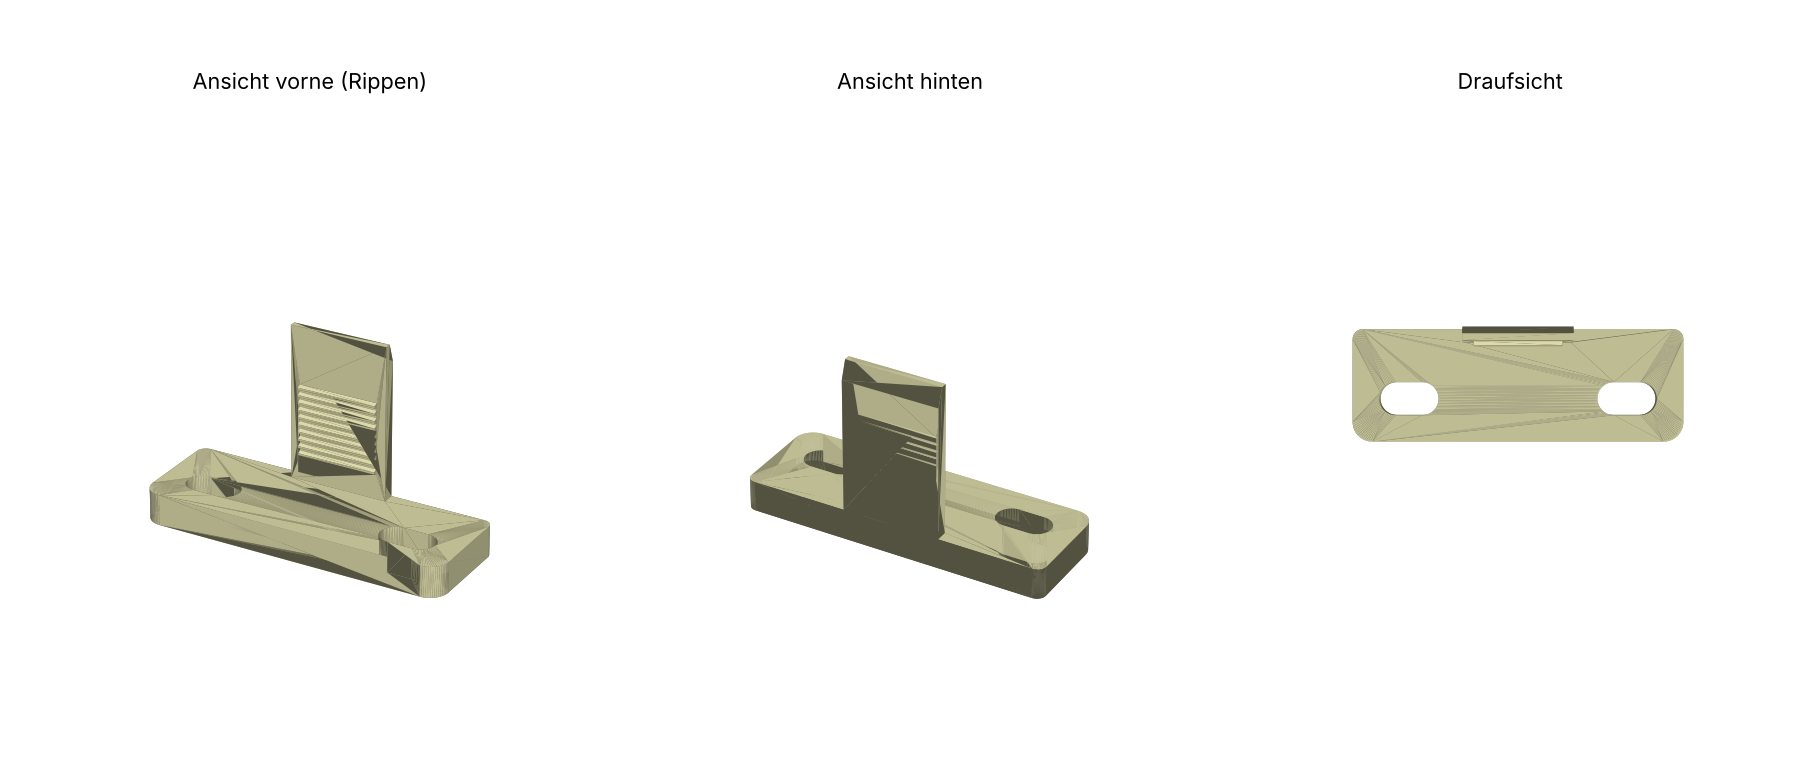
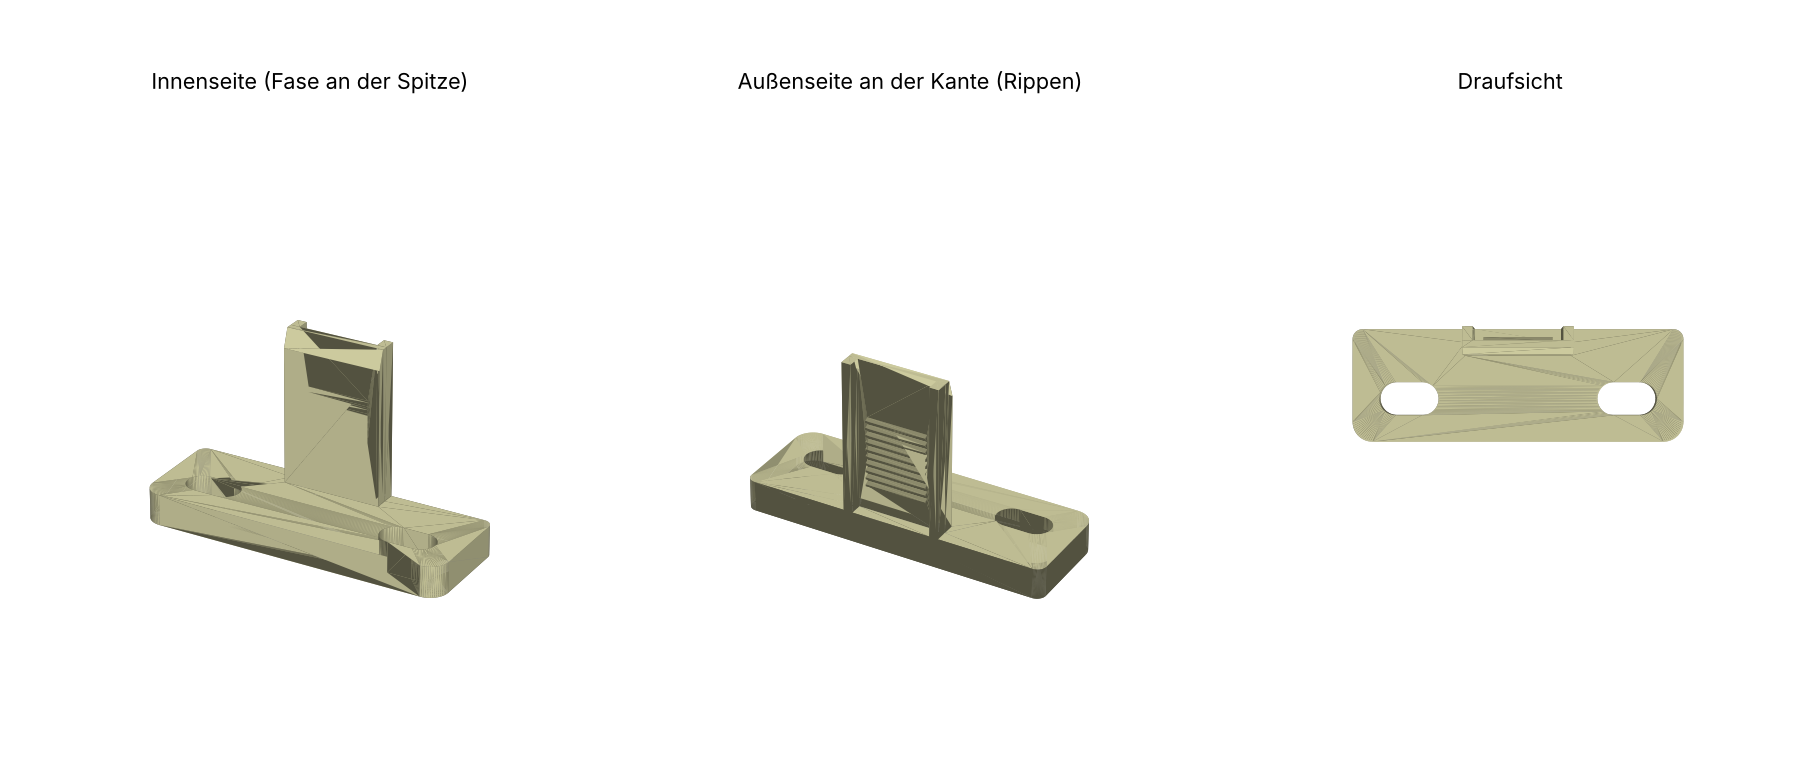
Halteclip: Steg gespiegelt – U-Profil offen zur Kante, Rippen außen, 4 mm stark
Claude-Session: https://claude.ai/code/session_018qFe72AN3oaUAiNsWCYreo

diff --git a/3d-druck/halteclip/halteclip.py b/3d-druck/halteclip/halteclip.py
@@ -19,6 +19,7 @@ KERBE_L, KERBE_T = 10.0, 0.0       # Kerbe in der rechten Kante (0 = keine)
 GESAMT_H = 30.0                    # Grundplatte + Steg = 30 mm
 STEG_B = 16.0                      # Steg-Breite entlang der Platte
 STEG_D = 2.0                       # Wandstärke Steg (Rücken)
+FLANSCH_B, FLANSCH_H = 1.5, 2.0    # Seitenwände des U-Profils (Breite, Tiefe)
 SPITZE_FASE_H, SPITZE_FASE_T = 3.0, 1.0   # Anfasung an der Steg-Spitze
 RIPPEN_ZONE = (9.0, 21.0)          # Z-Bereich der Griffrippen
 RIPPEN_TEILUNG, RIPPEN_H, RIPPEN_RAND = 1.2, 0.6, 1.5
@@ -67,28 +68,32 @@ outline = outline - slot(L - LANGLOCH_RAND_X - LANGLOCH_L, LANGLOCH_RAND_Y,
                          LANGLOCH_L, LANGLOCH_B)
 platte = Manifold.extrude(outline, T)
 
-# ---------------- Steg (flach, bündig mit der Plattenkante) ----------------
+# ---------------- Steg (U-Profil, öffnet zur Plattenkante hin) ----------------
+# Rücken innen, Seitenwände reichen bis zur Kante (bündig), Rippen außen im U.
 x0, x1 = (L - STEG_B) / 2, (L + STEG_B) / 2
-y_aussen = B                                # Steg bündig mit der Plattenkante
-y_innen = y_aussen - STEG_D
+y_kante = B                                 # Seitenwände bündig mit der Plattenkante
+y_ruecken_aussen = y_kante - FLANSCH_H      # Außenfläche Rücken (Rippenseite)
+y_innen = y_ruecken_aussen - STEG_D         # Innenfläche Rücken (Richtung Langlöcher)
 z0 = T - 0.01
-ruecken = prism_yz([(y_innen, z0), (y_aussen, z0),
-                    (y_aussen, GESAMT_H - SPITZE_FASE_H),
-                    (y_aussen - SPITZE_FASE_T, GESAMT_H),
-                    (y_innen, GESAMT_H)], x0, x1)
+ruecken = prism_yz([(y_innen, z0), (y_ruecken_aussen, z0),
+                    (y_ruecken_aussen, GESAMT_H),
+                    (y_innen + SPITZE_FASE_T, GESAMT_H),
+                    (y_innen, GESAMT_H - SPITZE_FASE_H)], x0, x1)
+flansch_l = box(x0, y_ruecken_aussen - 0.01, z0, x0 + FLANSCH_B, y_kante, GESAMT_H)
+flansch_r = box(x1 - FLANSCH_B, y_ruecken_aussen - 0.01, z0, x1, y_kante, GESAMT_H)
 
 rippen = []
 z = RIPPEN_ZONE[0]
 while z + RIPPEN_TEILUNG / 2 <= RIPPEN_ZONE[1]:
-    # Sägezahn-freie Trapezrippe (Profil gegen den Uhrzeigersinn)
-    rippen.append(prism_yz([(y_innen + 0.01, z + RIPPEN_TEILUNG * 0.75),
-                            (y_innen - RIPPEN_H, z + RIPPEN_TEILUNG * 0.5),
-                            (y_innen - RIPPEN_H, z + RIPPEN_TEILUNG * 0.25),
-                            (y_innen + 0.01, z)],
-                           x0 + RIPPEN_RAND, x1 - RIPPEN_RAND))
+    # Trapezrippe auf der Außenseite des Rückens (Profil gegen den Uhrzeigersinn)
+    rippen.append(prism_yz([(y_ruecken_aussen - 0.01, z),
+                            (y_ruecken_aussen + RIPPEN_H, z + RIPPEN_TEILUNG * 0.25),
+                            (y_ruecken_aussen + RIPPEN_H, z + RIPPEN_TEILUNG * 0.5),
+                            (y_ruecken_aussen - 0.01, z + RIPPEN_TEILUNG * 0.75)],
+                           x0 + FLANSCH_B + RIPPEN_RAND, x1 - FLANSCH_B - RIPPEN_RAND))
     z += RIPPEN_TEILUNG
 
-teil = platte + ruecken
+teil = platte + ruecken + flansch_l + flansch_r
 for r in rippen:
     teil = teil + r
 print("Manifold-Status:", teil.status(), "Genus:", teil.genus())
